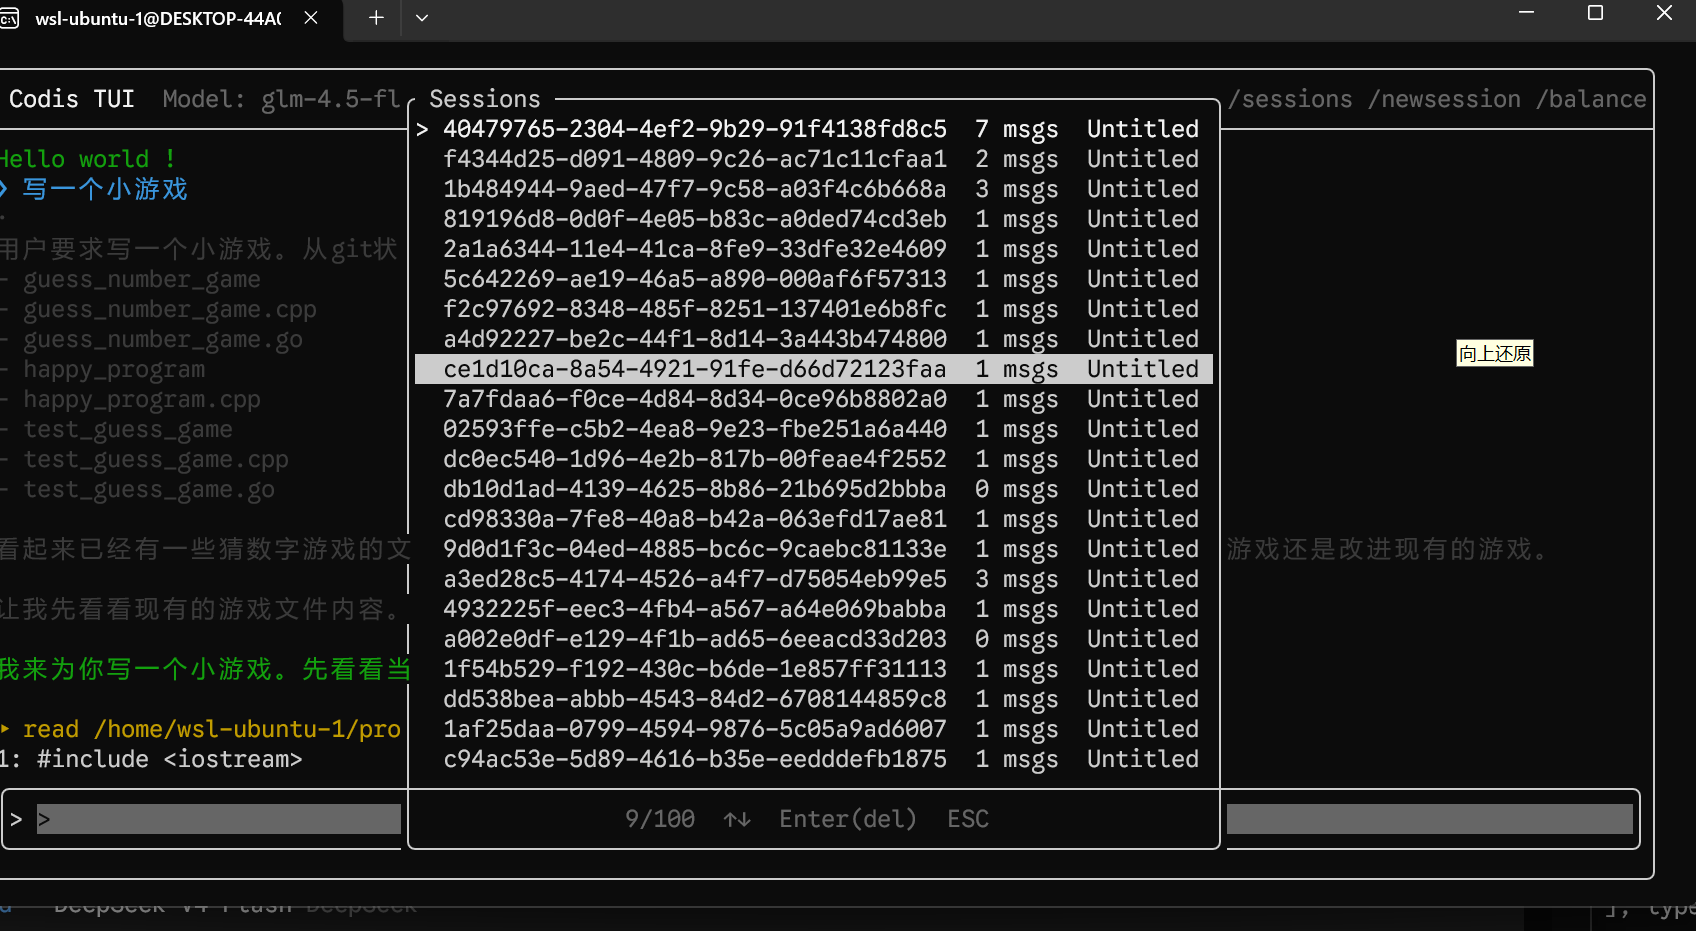
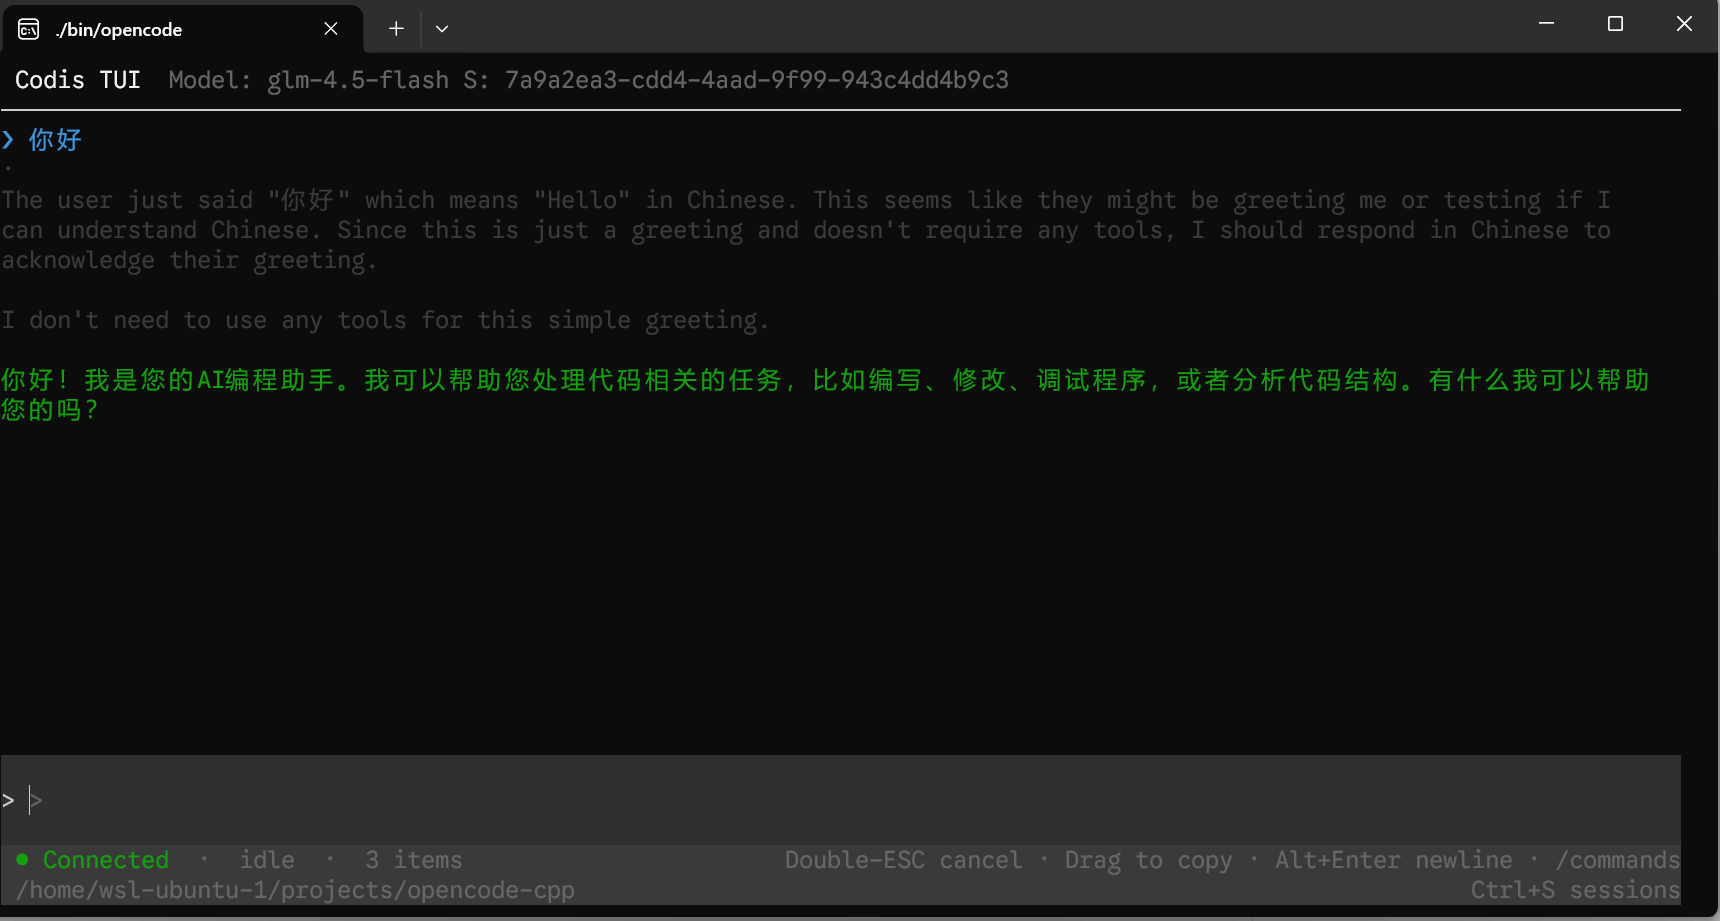
fix: rename docs/condis.png -> codis.png; update README image refs

diff --git a/README.md b/README.md
@@ -4,7 +4,7 @@ A C++20 AI coding assistant with multi-provider support, multi-client shared ses
 
 > 🇨🇳 [中文 README](./README.zh.md)
 
-![Codis](docs/condis.png)
+![Codis](docs/codis.png)
 
 ## Features
 

diff --git a/README.zh.md b/README.zh.md
@@ -4,7 +4,7 @@
 
 > 🇺🇸 [English README](./README.md)
 
-![Codis](docs/condis.png)
+![Codis](docs/codis.png)
 
 ## 特点
 
